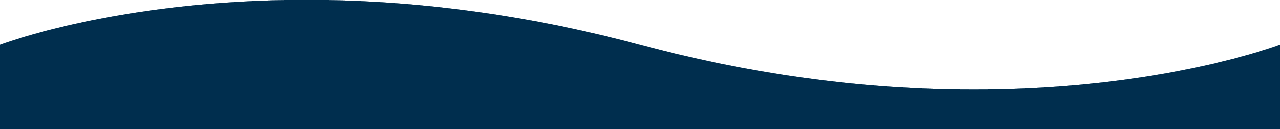
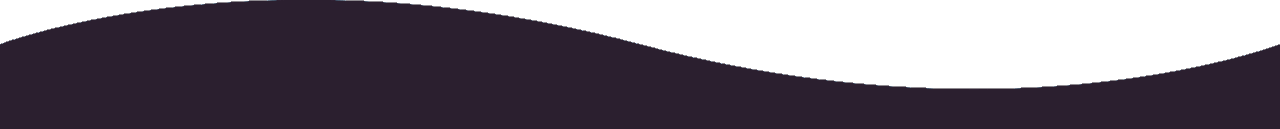
i dont even know what im doing atp

diff --git a/style.css b/style.css
@@ -11,7 +11,7 @@
 
 body,
 html {
-    background-color: #001523;
+    background-color: #1b141c;
     margin: 0;
     width: 100vw;
     height: 100vh;
@@ -44,7 +44,7 @@ p {
     height: 400px;
     width: 450px;
     border-radius: 35px;
-    background-color: #00406c;
+    background-color: #1b141c;
     padding-bottom: 39px;
 }
 
@@ -54,7 +54,7 @@ p {
 
 .intro span::before {
     content: "coder";
-    color: #ff9100;
+    color: #d23e32;
     animation: words 20s infinite;
 }
 
@@ -63,8 +63,8 @@ p {
     position: absolute;
     width: calc(100% + 8px);
     height: 100%;
-    background-color: #001523;
-    border-left: 2px solid #ff9100;
+    background-color: #1b141c;
+    border-left: 2px solid #d23e32;
     right: -8px;
     animation: cursor .8s infinite, typing 20s steps(14) infinite;
 }
@@ -135,7 +135,7 @@ section {
     position: relative;
     width: 100%;
     height: 100%;
-    background: #001523;
+    background: #1b141c;
 }
 
 section .wave {
